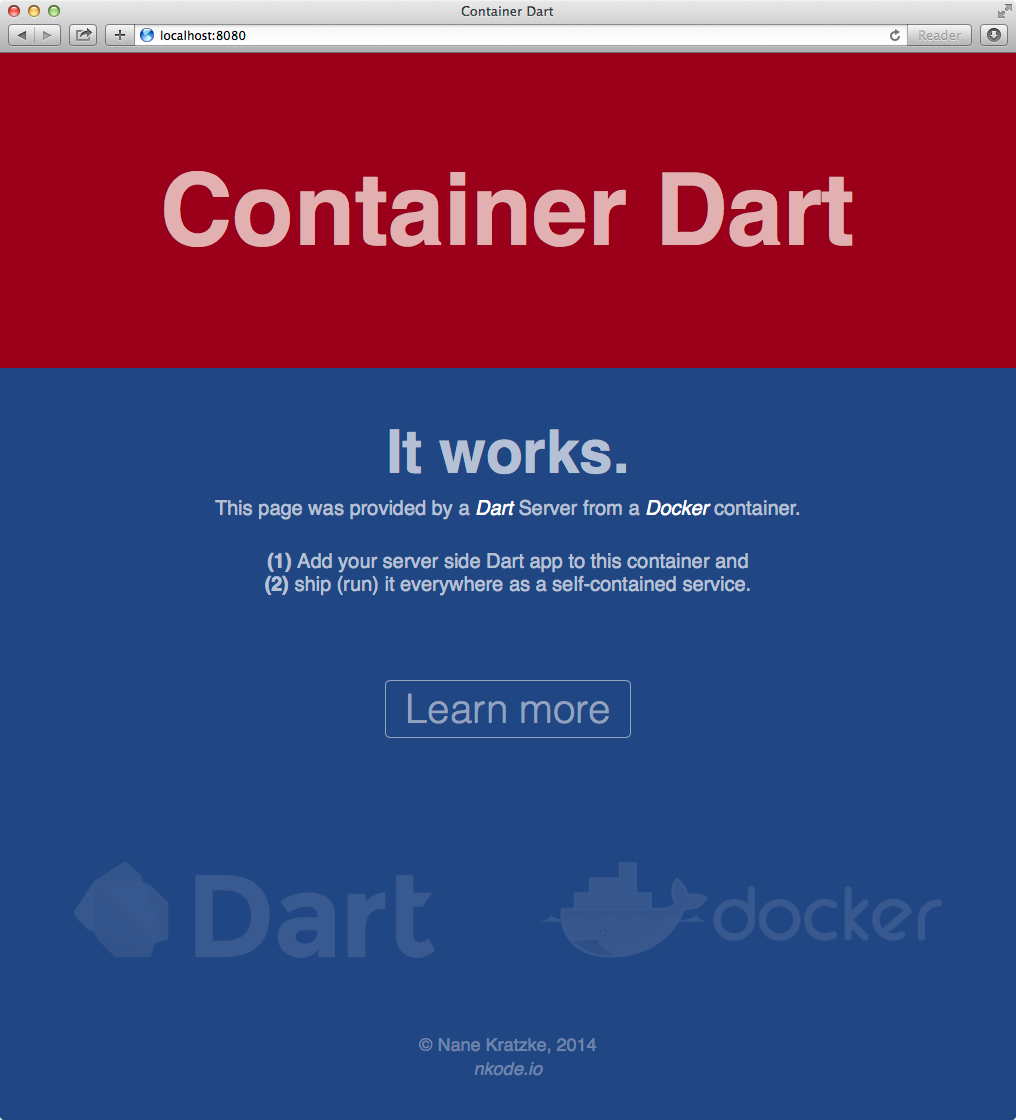
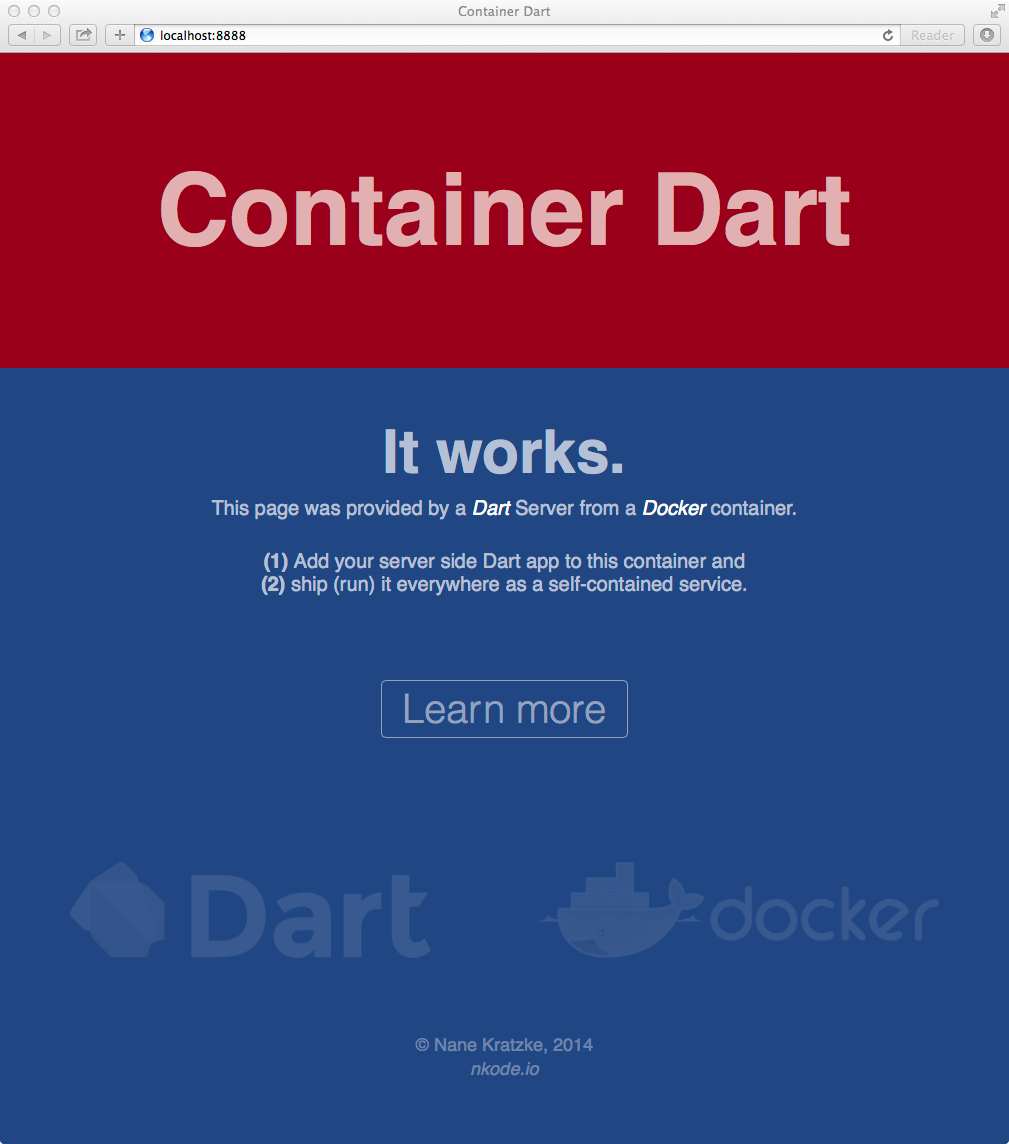
Dart meets Docker

diff --git a/2014/03/05/dockerize-dart.html b/2014/03/05/dockerize-dart.html
@@ -1,0 +1,356 @@
+<!DOCTYPE html>
+<html lang="en">
+  <head>
+    <meta charset="utf-8">
+    <meta http-equiv="X-UA-Compatible" content="IE=edge" />
+    <meta name="viewport" content="width=device-width, initial-scale=1" />
+    <meta name="google-site-verification" content="D7XyV9pkZo4Wsv7981mVGuGEiSF7WG0Id_J1jGMarcU" />
+    <title>Dart meets Docker (how to dockerize dart apps)</title>
+    
+    <!-- Favicon -->
+    <link rel="icon" href="/favicon.ico" type="image/x-icon">
+
+    <!-- Bootstrap -->
+    <link href="/css/bootstrap.min.css" rel="stylesheet">
+    <link href="/css/customize.css" rel="stylesheet">
+    <link href="/css/syntax.css" rel="stylesheet">
+
+    <!-- ShareThis Scripts
+    <script type="text/javascript">var switchTo5x=true;</script>
+    <script type="text/javascript" src="http://w.sharethis.com/button/buttons.js"></script>
+    <script type="text/javascript">stLight.options({publisher: "ur-be54e553-bdea-6613-5866-3a0cca99f467", doNotHash: false, doNotCopy: false, hashAddressBar: false});</script>-->
+
+    <!-- Google Analytics -->    
+    <script type="text/javascript">
+var _gaq = _gaq || [];
+_gaq.push(['_setAccount', 'UA-380838-9']);
+_gaq.push(['_trackPageview']);
+(function() {
+var ga = document.createElement('script'); ga.type = 'text/javascript'; ga.async = true; 
+
+ga.src = ('https:' == document.location.protocol ? 'https://' : 'http://') + 'stats.g.doubleclick.net/dc.js';
+
+var s = document.getElementsByTagName('script')[0]; s.parentNode.insertBefore(ga, s);
+})();
+</script>
+  </head>
+  <body>
+    
+    <!-- Fixed navbar -->
+<div class="navbar navbar-inverse navbar-fixed-top" role="navigation">
+  <div class="container">
+    <div class="navbar-header">
+      <button type="button" class="navbar-toggle" data-toggle="collapse" data-target=".navbar-collapse">
+    	<span class="sr-only">Toggle navigation</span>
+    	<span class="icon-bar"></span>
+    	<span class="icon-bar"></span>
+    	<span class="icon-bar"></span>
+      </button>
+      <a class="navbar-brand" href="/">nkode.io</span></a>
+    </div>
+    <div class="navbar-collapse collapse">
+      <ul class="nav navbar-nav pull-right">
+    	<li><a href="/about.html">About</a></li>
+		<li><a href="/thesis/">Thesis</a></li>    	
+    	<li><a href="/publications.html">Publications</a></li>            
+    <!--	<li><a href="#about">Research</a></li>            
+    	<li><a href="#contact">Lectures</a></li>
+    	<li><a href="#contact">Thesis</a></li>
+    	<li><a href="#contact">Publications</a></li>-->
+      </ul>
+    </div><!--/.nav-collapse -->
+  </div>
+</div>
+    
+    
+    
+    <div class="content">
+      <div class="container">
+        <article class"post">
+	<header>
+		<h2>Dart meets Docker (how to dockerize dart apps)</h2>
+		<p class="meta"><strong>05 Mar 2014</strong>
+		
+		by <em>Nane Kratzke</em>
+			
+		</p>
+		<p class="share hidden-print">
+	<a href="http://twitter.com/home?status=Dart+meets+Docker+%28how+to+dockerize+dart+apps%29 http://www.nkode.io/2014/03/05/dockerize-dart.html" target="_blank"><span class="onTwitter"></span></a>
+	<a href="https://plus.google.com/share?url=http://www.nkode.io/2014/03/05/dockerize-dart.html" target="_blank"><span class="onGooglePlus"></span></a>
+	<a href="http://www.linkedin.com/shareArticle?mini=true&url=http://www.nkode.io/2014/03/05/dockerize-dart.html&title=Dart+meets+Docker+%28how+to+dockerize+dart+apps%29&summary=&source=" target="_blank"><span class="onLinkedIn"></span></a>
+	<a href="https://www.xing.com/app/user?op=share&url=http%3A%2F%2Fwww.nkode.io%2F2014%2F03%2F05%2Fdockerize-dart.html&title=Dart+meets+Docker+%28how+to+dockerize+dart+apps%29" target="_blank"><span class="onXing"></span></a>
+</p>
+
+		<p class="tags hidden-print">
+	<strong>Tags: </strong>
+	
+	<span class="tag">dart</span>
+	
+	<span class="tag">deploy</span>
+	
+	<span class="tag">docker</span>
+	
+</p>
+	</header>
+	<section>
+		<p><a href="https://www.docker.io">Docker</a> is an open-source engine that automates the deployment of applications as portable and self-sufficient containers that will run virtually anywhere. Dockerized applications reduce configuration efforts and obstacles for administrators. Applications can be provided in a configured, self-sufficient and frictionless way.</p>
+
+<p><a href="https://www.dartlang.org">Dart</a> is a web programming language mainly developed by Google with the intention to provide an alternative to JavaScript (the actual de facto standard in web client side programming). Nevertheless Dart can be used to develop server side programs (see <a href="/2014/02/28/dart-part-II.html">Tour de Dart Part II</a> for more details concerning server side programming with Dart).</p>
+
+<p><a href="https://www.dartlang.org">Dart</a> and <a href="https://www.docker.io">Docker</a> are a great fit to provide frictionless deployable Dart apps. All you have to do is to supply an additional <em>Dockerfile</em> to an existing Dart package. This post show how to do this.</p>
+
+<p><a href="https://github.com/nkratzke/containerdart">Containerdart</a> is a very simple <a href="https://www.dartlang.org">Dart</a> HTTP server using the <a href="http://www.sinatrarb.com/">Sinatra</a> inspired web framework <a href="https://github.com/lvivski/start">Start</a> to provide static content.</p>
+
+<div class="highlight"><pre><code class="dart"><span class="k">import</span> <span class="s1">&#39;package:start/start.dart&#39;</span><span class="p">;</span>
+
+<span class="n">main</span><span class="p">()</span> <span class="p">{</span>
+  <span class="n">start</span><span class="p">(</span><span class="nl">host:</span> <span class="s1">&#39;0.0.0.0&#39;</span><span class="p">,</span> <span class="nl">port:</span> <span class="m">8080</span><span class="p">).</span><span class="n">then</span><span class="p">((</span><span class="n">Server</span> <span class="n">app</span><span class="p">)</span> <span class="p">{</span>
+    <span class="n">app</span><span class="p">.</span><span class="kd">static</span><span class="p">(</span><span class="s1">&#39;../build/web&#39;</span><span class="p">);</span>
+  <span class="p">});</span>
+<span class="p">}</span>
+</code></pre></div>
+
+<p><a href="https://github.com/nkratzke/containerdart">Containerdart</a> is provided via <a href="https://github.com/nkratzke/containerdart">github</a> as a general blueprint how Dart applications can be seamlessly dockerized.</p>
+
+<p>In the next steps you will learn</p>
+
+<ul>
+<li>how to install dockerized Dart applications from Github by installing Containerdart as a simple example</li>
+<li>and how Containerdart has been dockerized using an additonal <em>Dockerfile</em>.</li>
+</ul>
+
+<h3>Install Containerdart using Docker</h3>
+
+<p>All you need is a system where docker is installed on. You can install docker following the <a href="https://www.docker.io/gettingstarted/">install instructions</a> provided by <a href="https://www.docker.io">Docker</a>.</p>
+
+<p>Dockerized applications hosted on Github can be installed by docker with one command. We take <a href="https://github.com/nkratzke/containerdart">Containerdart</a> as an example.</p>
+
+<div class="highlight"><pre><code class="bash">docker build -t containerdart github.com/nkratzke/containerdart
+</code></pre></div>
+
+<p>Docker downloads specified repository from github and processes a <em>Dockerfile</em> in it to create an image from it. If image creation is completed you can instantiate a <em>container</em> from this image with the following command.</p>
+
+<div class="highlight"><pre><code class="bash">docker run -p 8888:8080 -d containerdart
+</code></pre></div>
+
+<p>Last command starts the container as a daemon and binds the container internal port 8080 to the host port 8888 (it is also possible to map the exposed container port 8080 to any other port number, e.g. 80). The container provided webserver should be accessible on <a href="http://localhost:8888">http://localhost:8888</a>.</p>
+
+<p>You can run </p>
+
+<div class="highlight"><pre><code class="bash">docker ps
+</code></pre></div>
+
+<p>to see that a container containing our simple Dart based HTTP server is running.</p>
+
+<p>If it is working you should see this webpage.</p>
+
+<p><center class="hidden-xs">
+<img src="/img/posts/containerdart.png" width="75%" class="photo" />
+</center>
+<img src="/img/posts/containerdart.png" width="100%" class="photo visible-xs" /></p>
+
+<h3>How is it working</h3>
+
+<p>It is recommended to inspect the git repository of <a href="https://github.com/nkratzke/containerdart">Containerdart</a> on github. You will see it is a normal Dart package except one additional file called <em>Dockerfile</em>. Docker uses dockerfiles to automate image generation. It is a great and simple format to define deployments.</p>
+
+<div class="highlight"><pre><code class="bash"><span class="c"># Install a dart container for demonstration purposes.</span>
+<span class="c"># Your dart server app will be accessible via HTTP on container port 8080.</span>
+<span class="c"># You should adapt this Dockerfile to your needs.</span>
+<span class="c"># If you are new to Dockerfiles please read </span>
+<span class="c"># http://docs.docker.io/en/latest/reference/builder/</span>
+<span class="c"># to learn more about Dockerfiles.</span>
+
+FROM stackbrew/ubuntu:13.10
+MAINTAINER Nane Kratzke &lt;nane@nkode.io&gt;
+
+<span class="c"># Install Dart SDK. Do not touch this until you know what you are doing.</span>
+<span class="c"># We do not install darteditor nor dartium because this is a server container.</span>
+<span class="c"># See: http://askubuntu.com/questions/377233/how-to-install-google-dart-in-ubuntu</span>
+RUN apt-get update
+RUN apt-get install -y software-properties-common python-software-properties
+RUN apt-add-repository ppa:hachre/dart
+RUN apt-get -y update
+RUN apt-get install -y dartsdk
+
+<span class="c"># Install the dart server app. Add additional directories if necessary for your app.</span>
+ADD pubspec.yaml /container/pubspec.yaml
+ADD bin          /container/bin       
+ADD web          /container/web
+
+<span class="c"># Build the app. Do not touch this.</span>
+WORKDIR /container
+RUN pub build
+
+<span class="c"># Expose port 8080. You should change it to the port(s) your app is serving on.</span>
+EXPOSE 8080
+
+<span class="c"># Entrypoint. </span>
+<span class="c"># Whenever the container is started the following command is executed in your container.</span>
+<span class="c"># In most cases it simply starts your app.</span>
+WORKDIR /container/bin
+ENTRYPOINT <span class="o">[</span><span class="s2">&quot;dart&quot;</span><span class="o">]</span>
+
+<span class="c"># Change this to your starting dart.</span>
+CMD <span class="o">[</span><span class="s2">&quot;httpserver.dart&quot;</span><span class="o">]</span>
+</code></pre></div>
+
+<p>This file explains docker what to do when</p>
+
+<div class="highlight"><pre><code class="bash">docker build -t containerdart github.com/nkratzke/containerdart
+</code></pre></div>
+
+<p>is called. So the above shown <em>Dockerfile</em> extends</p>
+
+<ul>
+<li>a barebone Ubuntu 13.10 system,</li>
+<li>installs additionally Dart SDK,</li>
+<li>copies the application files into the container (bin and web directory),</li>
+<li>starts the build process on the system,</li>
+<li>defines an entrypoint (which is being called when the container is started by docker).</li>
+</ul>
+
+<p>It can be easily adapted to other Dart apps. Just clone the <a href="https://github.com/nkratzke/containerdart">Containerdart</a> repository and adapt it to your needs.</p>
+
+<h3>A slightly more complex example (Dartchat)</h3>
+
+<p><a href="https://github.com/nkratzke/dartchat">Dartchat</a> is another server side Dart app providing a simple websocket based chat server. It is available via <a href="https://github.com/nkratzke/dartchat">github</a> or <a href="http://pub.dartlang.org/packages/dartchat">pub.dartlang.org</a>. <a href="https://github.com/nkratzke/dartchat">Dartchat</a> is an example of second part of the <a href="/2014/02/28/dart-part-II.html">Tour de Dart</a>.</p>
+
+<p>You can install it using docker</p>
+
+<div class="highlight"><pre><code class="bash">docker build -t dartchat github.com/nkratzke/dartchat
+</code></pre></div>
+
+<p>and run it like this</p>
+
+<div class="highlight"><pre><code class="bash">docker run -p 8080:3000 -d dartchat
+</code></pre></div>
+
+<p>Accessing <a href="http://localhost:8080">http://localhost:8080</a> will provide you following webpage:</p>
+
+<p><center class="hidden-xs">
+<img src="/img/posts/dartchat.png" width="75%" class="photo" />
+</center>
+<img src="/img/posts/dartchat.png" width="100%" class="photo visible-xs" /></p>
+
+<p>The responsible <em>Dockerfile</em> of Dartchat looks like this:</p>
+
+<div class="highlight"><pre><code class="bash"><span class="c"># Install a dartchat as a docker container.</span>
+<span class="c"># Dartchat will be exposed via HTTP on port 3000.</span>
+<span class="c">#</span>
+<span class="c"># This file is hosted on github. Therefore you can start it in docker like this:</span>
+<span class="c"># &gt; docker build -t dartchat github.com/nkratzke/dartchat</span>
+<span class="c"># &gt; docker run -p 8080:3000 -d dartchat</span>
+
+FROM stackbrew/ubuntu:13.10
+MAINTAINER Nane Kratzke &lt;nane@nkode.io&gt;
+
+<span class="c"># Install Dart SDK. Do not touch this until you know what you are doing.</span>
+<span class="c"># We do not install darteditor nor dartium because this is a server container.</span>
+<span class="c"># See: http://askubuntu.com/questions/377233/how-to-install-google-dart-in-ubuntu</span>
+RUN apt-get update
+RUN apt-get install -y software-properties-common python-software-properties
+RUN apt-add-repository ppa:hachre/dart
+RUN apt-get -y update
+RUN apt-get install -y dartsdk
+
+<span class="c"># Install the dart server app. </span>
+ADD pubspec.yaml /container/pubspec.yaml
+ADD lib          /container/lib
+ADD bin          /container/bin       
+ADD web          /container/web
+
+<span class="c"># Build the app. Do not touch this.</span>
+WORKDIR /container
+RUN pub build
+
+<span class="c"># Expose port 3000.</span>
+EXPOSE 3000
+
+<span class="c"># Entrypoint.</span>
+WORKDIR /container/bin
+ENTRYPOINT <span class="o">[</span><span class="s2">&quot;dart&quot;</span><span class="o">]</span>
+
+<span class="c"># Change this to your starting dart.</span>
+CMD <span class="o">[</span><span class="s2">&quot;chartserver.dart&quot;</span><span class="o">]</span>
+</code></pre></div>
+
+<h3>Closing remarks regarding docker (on non linux systems)</h3>
+
+<p>If docker is used on a non linux system like Mac OS X it is likely that docker uses <a href="https://www.virtualbox.org/">VirtualBox</a> under the hood. In theses cases you must configure port forwarding in virtual box. So if you are exposing port 8080 in your docker container mapping it to port 8888 for the outside world you must forward host port 8888 to docker-vm port 8888 in virtualbox. How to do this is explained <a href="http://www.virtualbox.org/manual/ch06.html#natforward">here</a>.</p>
+
+	</section>
+	<footer>
+		<div class="row">
+			<div class="col-sm-6">
+				<p class="tags hidden-print">
+	<strong>Tags: </strong>
+	
+	<span class="tag">dart</span>
+	
+	<span class="tag">deploy</span>
+	
+	<span class="tag">docker</span>
+	
+</p>
+			</div>
+			<div class="col-sm-6">
+				<p class="share hidden-print">
+	<a href="http://twitter.com/home?status=Dart+meets+Docker+%28how+to+dockerize+dart+apps%29 http://www.nkode.io/2014/03/05/dockerize-dart.html" target="_blank"><span class="onTwitter"></span></a>
+	<a href="https://plus.google.com/share?url=http://www.nkode.io/2014/03/05/dockerize-dart.html" target="_blank"><span class="onGooglePlus"></span></a>
+	<a href="http://www.linkedin.com/shareArticle?mini=true&url=http://www.nkode.io/2014/03/05/dockerize-dart.html&title=Dart+meets+Docker+%28how+to+dockerize+dart+apps%29&summary=&source=" target="_blank"><span class="onLinkedIn"></span></a>
+	<a href="https://www.xing.com/app/user?op=share&url=http%3A%2F%2Fwww.nkode.io%2F2014%2F03%2F05%2Fdockerize-dart.html&title=Dart+meets+Docker+%28how+to+dockerize+dart+apps%29" target="_blank"><span class="onXing"></span></a>
+</p>
+
+			</div>
+		</div>
+	</footer>
+
+      </div>
+    </div>
+    
+    <div class="end hidden-print">
+  <div class="container">
+      <div class="row">
+    	<div class="col-sm-5 block">
+	    	<center>
+		    	&copy; Nane Kratzke (All rights reserved)
+		   		<div class="socialsites">
+   <a href="https://twitter.com/nanekratzke" title="Twitter"><img src="/img/social/twitter-128.png" alt="Twitter"></a>
+   <a href="http://www.slideshare.com/i21aneka" title="Slideshare"><img src="/img/social/slideshare-128.png" alt="Slideshare"></a>
+   <a href="https://github.com/nkratzke" title="Github"><img src="/img/social/github-128.png" alt="Github"></a>
+   <a href="https://de.linkedin.com/in/nanekratzke" title="LinkedIN"><img src="/img/social/linkedin-128.png" alt="LinkedIN"></a>
+   <a href="https://www.xing.com/profile/Nane_Kratzke" title="Xing"><img src="/img/social/xing-128.png" alt="Xing"></a>
+   <a href="https://plus.google.com/+NaneKratzke" title="Google Plus"><img src="/img/social/googleplus-128.png" alt="Google Plus"></a>
+   <a href="https://www.facebook.com/nane.kratzke" title="Facebook"><img src="/img/social/facebook-128.png" alt="Facebook"></a>
+</div>
+    		</center>
+    	</div>
+       <div class="col-sm-2"></div>
+    	<div class="col-sm-5 block hidden-xs">
+	    	<center>
+		      Links to my official sites
+		      <div class="officialsites">
+   <a href="http://www.fh-luebeck.de/Inhalt/09_Fachhochschule_intern/07_Services/70_Verzeichnis_der_Hochschulangehoerigen/06_personenarchiv/kratzke_nane.html"><img src="/img/official/fhl-logo.png"></a>
+   <a href="http://www.cosa.fh-luebeck.de/en/home/kratzke"><img src="/img/official/cosa-logo.png"></a>
+</div>
+    		</center>
+    	</div>
+      </div>
+    </div>
+  </div>  
+</div>
+
+<div class="footer hidden-print">
+	<div class="container">
+		<center>
+			<a href="/about.html">About</a> &bullet;		
+			<a href="/disclosure.html">Contact</a> &bullet;
+			<a href="/disclosure.html">Legal Disclosure</a>
+		</center>
+	</div>
+</div>
+    
+    <script src="https://code.jquery.com/jquery.js"></script>
+    <script src="/js/bootstrap.min.js"></script>
+  </body>
+</html>

diff --git a/index.html b/index.html
@@ -101,6 +101,12 @@ var s = document.getElementsByTagName('script')[0]; s.parentNode.insertBefore(ga
     <div class="post col-md-7">
       <h2>Latest <small>Posts</small></h2>
           
+      <h3><a href="/2014/03/05/dockerize-dart.html">Dart meets Docker (how to dockerize dart apps)</a> <small>05 Mar 2014</small></h3>
+      <p>
+        Docker is an open-source engine that automates the deployment of applications as portable and self-sufficient containers that will run virtually anywhere. Dart is a web programming language mainly developed by Google with the intention to provide an alternative to JavaScript. Dart and Docker are a great fit to provide frictionless deployable Dart apps. All you have to do is to supply an additional Dockerfile to an existing Dart package. This post show how to dockerize your Dart apps.
+        <a href="/2014/03/05/dockerize-dart.html">[...]</a>
+      </p>
+          
       <h3><a href="/thesis/2014/03/04/thesis-pumpscanner.html">Extension of PumpScanner with an interface for Bluetooth communications with the PSCommunicator</a> <small>04 Mar 2014</small></h3>
       <p>
         The Android App PumpScanner by Lorentz GmbH & Co. KG is able to communicate with the Lorentz DataModule using the smartphone’s Bluetooth module. The DataModule is placed directly on the pump and measures and stores actual data and pump settings. The task of this bachelor thesis is to extend the PumpScanner App with features to supply communication with the PSCommunicator server by same company.
